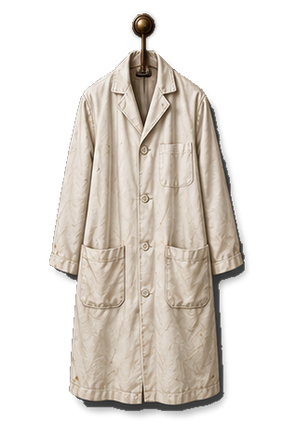
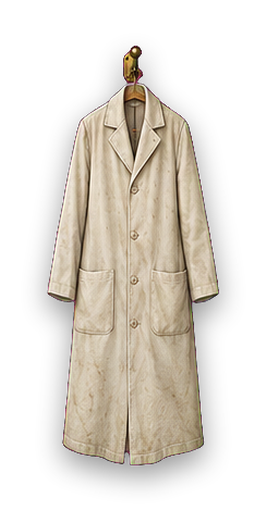
Redo six House Three containers so closed and open pictures match
The film cabinet, drug safe and instrument case (X-Ray Room), the sorting
basket (Laundry), the ward strongbox (Ward Seven) and the white coat
(Dispensary) changed colour or shape when opened. They are re-cut from a
new sheet with matching pairs and stand where the old pictures stood. The
resignation draft now sits in the coat's open pocket.

house_three_redo_containers.py cuts the new sheet so the step can be
repeated.

Changed region(s): [[0.1498, 0.0304, 0.8689, 0.972]]

diff --git a/tools/sprite_fixes/house_three_redo_containers.py b/tools/sprite_fixes/house_three_redo_containers.py
@@ -1,0 +1,114 @@
+#!/usr/bin/env python3
+"""Re-cuts six House Three containers from assets/objects/house_three_containers_redo_sheet_v1.png.
+
+    python3 tools/sprite_fixes/house_three_redo_containers.py [--place]
+
+The first pictures of these six did not match when opened (a different colour or shape):
+the X-Ray Room film cabinet, drug safe and instrument case, the Laundry sorting basket,
+the Ward Seven strongbox and the Dispensary white coat. The redo sheet has a matching
+closed and open picture of each, at the same scale.
+
+Each pair is saved on one shared canvas with the CLOSED picture in the middle (so the click
+box sits on it) and the open picture lined up on the anchor points given below.
+With --place the scene nodes are also re-scaled and moved so the new closed picture stands
+exactly where the old one (the version in git HEAD) stood. Use --place only the first time.
+"""
+import io
+import re
+import subprocess
+import sys
+from pathlib import Path
+
+from PIL import Image
+
+ROOT = Path(__file__).resolve().parent.parent.parent
+sys.path.insert(0, str(ROOT / "tools"))
+import cut_sprites as c
+
+SHEET = "house_three_containers_redo_sheet_v1.png"
+LONGEST = 420
+# id, scene, node, closed box, open box, closed anchor, open anchor (sheet pixels), how the old place is matched
+JOBS = [
+    ("xray_room_film_cabinet", "xray_room", "FilmCabinet", [25, 60, 360, 310], [362, 60, 725, 310], (192, 285), (543, 285), "bottom"),
+    ("xray_room_drug_safe", "xray_room", "DrugSafe", [780, 55, 1025, 315], [1110, 55, 1440, 315], (922, 288), (1232, 288), "bottom"),
+    ("xray_room_instrument_case", "xray_room", "InstrumentCase", [25, 415, 365, 610], [380, 365, 715, 625], (193, 582), (545, 598), "bottom"),
+    ("laundry_sorting_basket", "laundry", "SortingBasket", [735, 390, 1070, 630], [1100, 400, 1440, 640], (900, 600), (1262, 603), "bottom"),
+    ("ward_seven_ward_strongbox", "ward_seven", "WardStrongbox", [50, 730, 330, 995], [405, 685, 665, 1020], (190, 968), (535, 990), "bottom"),
+    ("dispensary_white_coat", "dispensary", "WhiteCoat", [790, 625, 1005, 1060], [1150, 625, 1375, 1060], (897, 652), (1263, 652), "top"),
+]
+
+
+def solid_box(image: Image.Image):
+    return image.getchannel("A").point(lambda v: 255 if v > 128 else 0).getbbox()
+
+
+def cut_at(box, anchor):
+    """Returns the cut picture and where `anchor` (sheet pixels) lies inside it."""
+    full = c.sheet(SHEET)
+    plain = full.crop(box)
+    tight = plain.getchannel("A").point(lambda v: 255 if v > c.ALPHA_CUTOFF else 0).getbbox()
+    piece = c.cut({"sheet": SHEET, "box": box})
+    # cut() keeps a 10 px margin round the drawing and add_shadow() adds its own margin.
+    margin = (piece.width - (min(plain.width, tight[2] + 10) - max(0, tight[0] - 10))) // 2
+    left = box[0] + max(0, tight[0] - 10) - margin
+    top = box[1] + max(0, tight[1] - 10) - margin
+    return piece, (anchor[0] - left, anchor[1] - top)
+
+
+def main() -> None:
+    place = "--place" in sys.argv
+    for name, room, node, closed_box, open_box, closed_anchor, open_anchor, pin in JOBS:
+        closed, ca = cut_at(closed_box, closed_anchor)
+        opened, oa = cut_at(open_box, open_anchor)
+        # The closed picture goes in the middle of the canvas; the open one hangs on the same anchor.
+        cb = solid_box(closed)
+        centre = ((cb[0] + cb[2]) / 2, (cb[1] + cb[3]) / 2)
+        offset = (ca[0] - oa[0], ca[1] - oa[1])  # open picture's corner, in closed-picture pixels
+        reach_x = max(centre[0], closed.width - centre[0], centre[0] - offset[0], offset[0] + opened.width - centre[0])
+        reach_y = max(centre[1], closed.height - centre[1], centre[1] - offset[1], offset[1] + opened.height - centre[1])
+        size = (int(reach_x * 2) + 8, int(reach_y * 2) + 8)
+        origin = (size[0] / 2 - centre[0], size[1] / 2 - centre[1])
+        factor = LONGEST / max(cb[2] - cb[0], cb[3] - cb[1])
+        results = {}
+        for state, picture, at in (("closed", closed, origin), ("open", opened, (origin[0] + offset[0], origin[1] + offset[1]))):
+            canvas = Image.new("RGBA", size, (0, 0, 0, 0))
+            canvas.alpha_composite(picture, (round(at[0]), round(at[1])))
+            canvas = canvas.resize((round(size[0] * factor), round(size[1] * factor)), Image.LANCZOS)
+            path = c.OBJECTS_DIR / f"{name}_{state}_v1.png"
+            results[state] = (path, canvas)
+        if place:
+            place_node(room, node, name, results["closed"][1], pin)
+        for path, canvas in results.values():
+            canvas.save(path)
+            print(path.name, canvas.size)
+
+
+def place_node(room: str, node: str, name: str, new_closed: Image.Image, pin: str) -> None:
+    """Scales and moves the node so the new closed picture covers the place of the old one."""
+    old = Image.open(io.BytesIO(subprocess.run(["git", "show", f"HEAD:assets/objects/{name}_closed_v1.png"],
+            cwd=ROOT, capture_output=True, check=True).stdout)).convert("RGBA")
+    scene_path = ROOT / "scenes" / f"{room}.tscn"
+    scene = scene_path.read_text()
+    match = re.search(r'\[node name="%s"[^\]]*\]\n((?:(?!\n\[).*\n)*)' % node, scene)
+    body = match.group(1)
+    px, py = map(float, re.search(r"^position = Vector2\(([-\d.]+), ([-\d.]+)\)", body, re.M).groups())
+    kx, ky = map(float, re.search(r"^scale = Vector2\(([-\d.]+), ([-\d.]+)\)", body, re.M).groups())
+    ob = solid_box(old)
+    # Where the old closed picture is on screen.
+    left, right = sorted((px + (ob[0] - old.width / 2) * kx, px + (ob[2] - old.width / 2) * kx))
+    top, bottom = py + (ob[1] - old.height / 2) * ky, py + (ob[3] - old.height / 2) * ky
+    nb = solid_box(new_closed)
+    nw, nh = nb[2] - nb[0], nb[3] - nb[1]
+    k = (bottom - top) / nh if pin == "top" else (right - left) / nw
+    x = (left + right) / 2
+    y = top + nh * k / 2 if pin == "top" else bottom - nh * k / 2
+    sign = -1.0 if kx < 0 else 1.0
+    for key, value in (("position", f"Vector2({x:.1f}, {y:.1f})"), ("scale", f"Vector2({k * sign:.4f}, {k:.4f})"),
+            ("size", f"Vector2({nw * 0.94:.0f}, {nh * 0.94:.0f})")):
+        body = re.sub(r"^%s = .*\n" % key, f"{key} = {value}\n", body, flags=re.M)
+    scene_path.write_text(scene[:match.start(1)] + body + scene[match.end(1):])
+    print(f"placed {node}: {x:.0f}, {y:.0f}, {nw * k:.0f} x {nh * k:.0f} on screen")
+
+
+if __name__ == "__main__":
+    main()
